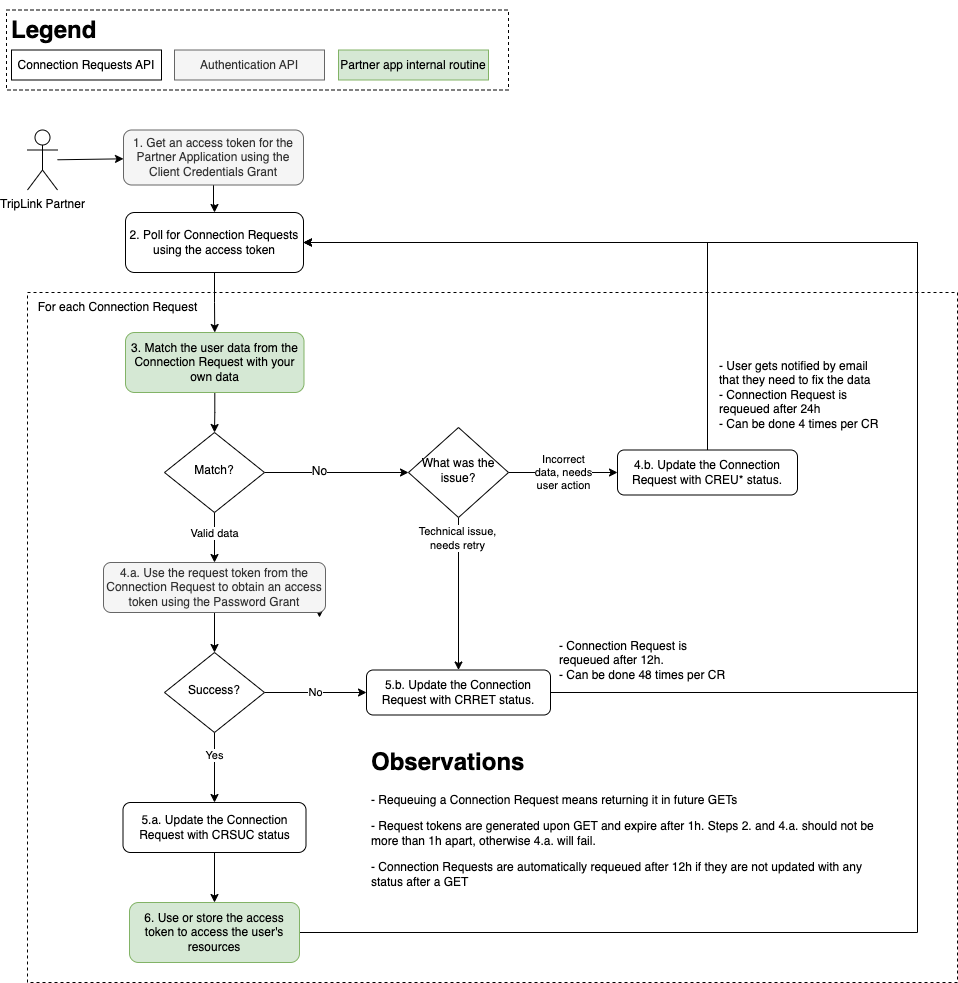
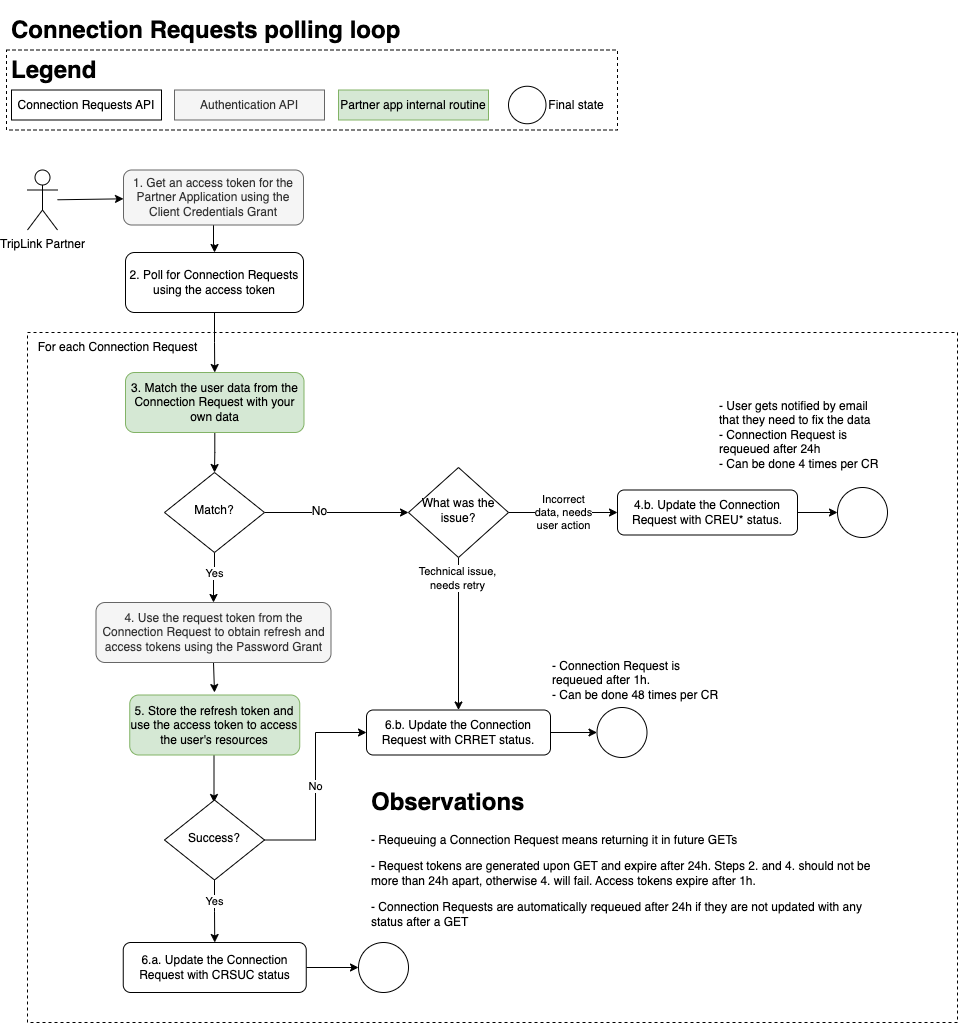
[skip ci] Updates

diff --git a/api-reference/common/connection-requests/connection-requests-resource.html b/api-reference/common/connection-requests/connection-requests-resource.html
@@ -1148,13 +1148,13 @@
 
 <h2 id="connection-request-lifecycle"><a name="connection-request-lifecycle"></a>Connection Request Lifecycle</h2>
 
-<p>After retrieving Connection Requests as part of a polling process, the partner is expected to match the user information with that of their own database. Upon a successful match, the partner is expected to exchange each request token contained in each Connection Request for an access token. The partner is also expected to put back a status indicating if the connection could be established, for each Connection Request, at most 12h after retrieving them. In case of failure, the Connection Request will be returned in future polls for retrial (see the diagram below for details).</p>
+<p>After retrieving Connection Requests as part of a polling process, the partner is expected to match the user information with that of their own database. Upon a successful match, the partner is expected to exchange each request token contained in each Connection Request for an access token. The partner is also expected to put back a status indicating if the connection could be established, for each Connection Request, at most 24h after retrieving them. In case of failure, the Connection Request will be returned in future polls for retrial (see the diagram below for details).</p>
 
 <p><img src="./supplier-flow.png" alt="Supplier flow" /></p>
 
 <h2 id="retrieve-connection-requests">Retrieve Connection Requests</h2>
 
-<p>This method returns a page of connection requests to the partner app, limited by the <code class="language-plaintext highlighter-rouge">limit</code> request parameter. <strong>Each call will return a new page of results</strong>. If you do not process these results (put back a status), they will only be returned in future requests after 12h - see the <a href="#connection-request-lifecycle">Connection Request Lifecycle</a>.</p>
+<p>This method returns a page of connection requests to the partner app, limited by the <code class="language-plaintext highlighter-rouge">limit</code> request parameter. <strong>Each call will return a new page of results</strong>. If you do not process these results (put back a status), they will only be returned in future requests after 24h - see the <a href="#connection-request-lifecycle">Connection Request Lifecycle</a>.</p>
 
 <h3 id="request">Request</h3>
 
@@ -1278,7 +1278,7 @@ curl \
 
 <h3 id="connection-status"><a name="connection-status"></a>Connection Status</h3>
 
-<p>The status of the connection as indicated by the partner. Both the successful (<code class="language-plaintext highlighter-rouge">CRSUC</code>) and error statuses (<code class="language-plaintext highlighter-rouge">CREU1</code>, <code class="language-plaintext highlighter-rouge">CREU2</code>, <code class="language-plaintext highlighter-rouge">CREU3</code>) generate email notifications to the user when PUT back by the partner. This lets the user know they can already book with the partner in case of success, or, in case of error, that they need to check the loyalty account information they supplied. In case of error, the Connection Request is requeued (returned in future GETs) after 24 hours. This can be done 4 times, after that the Connection Request is set with an error status and is not returned in future GETs. Finally, the <code class="language-plaintext highlighter-rouge">CRRET</code> status does not generate an email notification to the user, it’s intended purpose is to requeue a Connection Request (after 1 hour) for another processing attempt by the supplier to retry the connection. This can be done at most 48 times, after that the Connection Request is set with an error status and is not returned in future GETs. As previously mentioned, if the supplier does not PUT back any status, the Connection Request is automatically requeued after 12 hours (again, at most 48 times). </p>
+<p>The status of the connection as indicated by the partner. Both the successful (<code class="language-plaintext highlighter-rouge">CRSUC</code>) and error statuses (<code class="language-plaintext highlighter-rouge">CREU1</code>, <code class="language-plaintext highlighter-rouge">CREU2</code>, <code class="language-plaintext highlighter-rouge">CREU3</code>) generate email notifications to the user when PUT back by the partner. This lets the user know they can already book with the partner in case of success, or, in case of error, that they need to check the loyalty account information they supplied. In case of error, the Connection Request is requeued (returned in future GETs) after 24 hours. This can be done 4 times, after that the Connection Request is set with an error status and is not returned in future GETs. Finally, the <code class="language-plaintext highlighter-rouge">CRRET</code> status does not generate an email notification to the user, it’s intended purpose is to requeue a Connection Request (after 1 hour) for another processing attempt by the supplier to retry the connection. This can be done at most 48 times, after that the Connection Request is set with an error status and is not returned in future GETs. As previously mentioned, if the supplier does not PUT back any status, the Connection Request is automatically requeued after 24 hours (again, at most 48 times). </p>
 
 <table>
   <thead>
